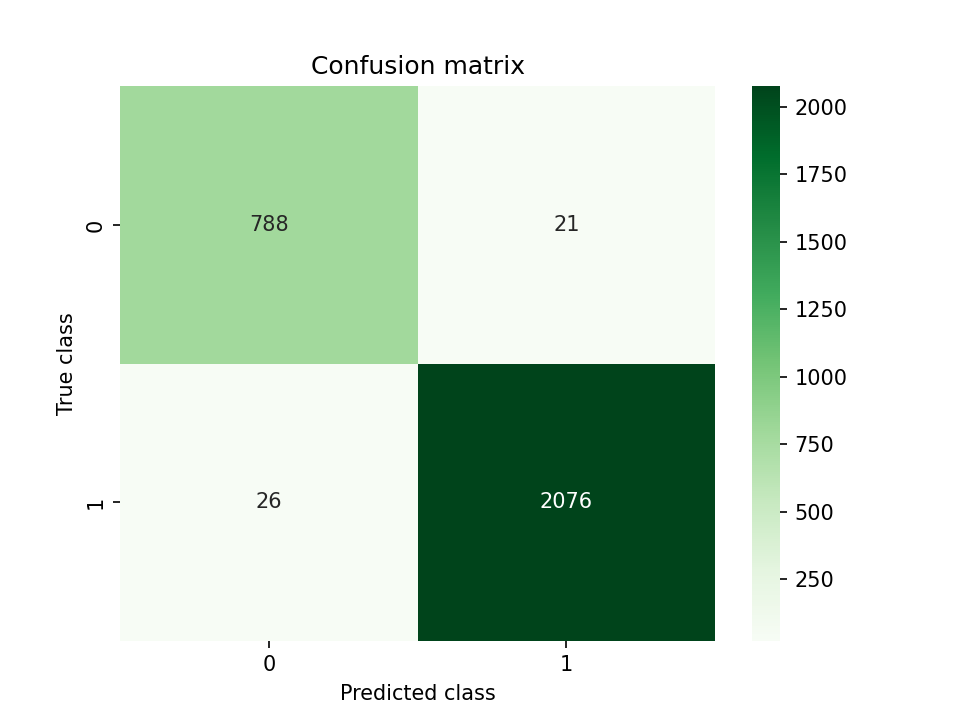
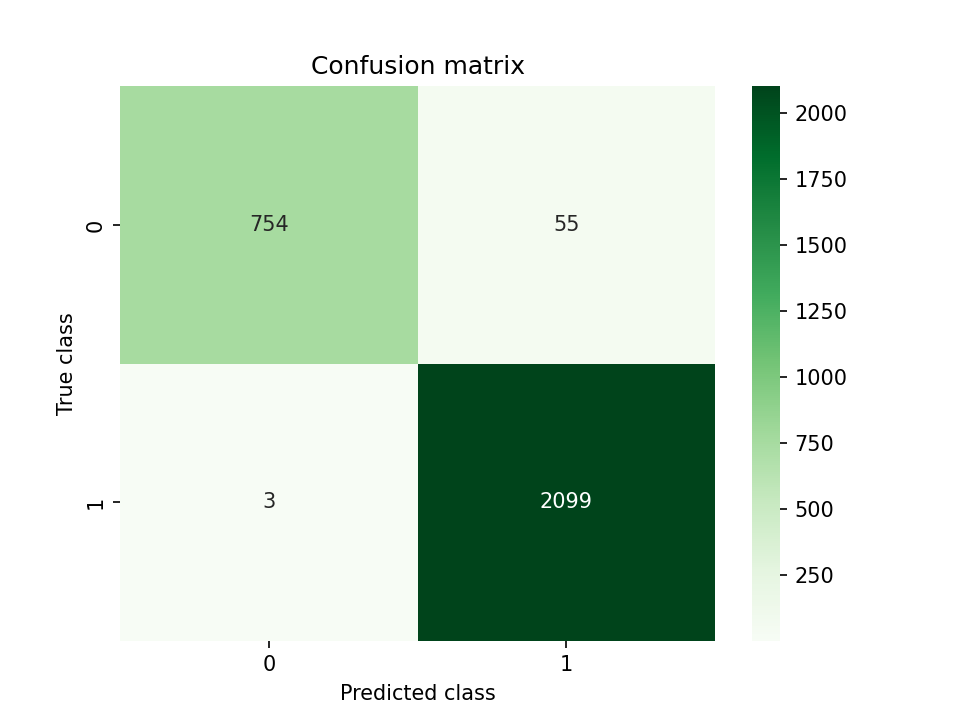
even newer results

diff --git a/code/main.py b/code/main.py
@@ -27,8 +27,16 @@ x_ptbdb, y_ptbdb, x_test_ptbdb, y_test_ptbdb = load_PTB_dataset()
 
 ### BASELINES
 
-test_mitbih_baseline(x_test_mit, y_test_mit)
-test_PTBDB_baseline(x_test_ptbdb, y_test_ptbdb)
+preds_baseline_mit = test_mitbih_baseline(x_test_mit, y_test_mit)
+evaluate("Baseline-MIT", preds_baseline_mit, y_test_mit, save_results=True)
+
+preds_baseline_ptbdb = test_PTBDB_baseline(x_test_ptbdb, y_test_ptbdb)
+evaluate(
+    "Baseline-PTB",
+    preds_baseline_ptbdb,
+    y_test_ptbdb,
+    save_results=True,
+)
 
 ### TASK 1
 ## Vanilla CNN
@@ -95,7 +103,7 @@ preds_resnet_ptbdb = get_preds_from_numpy(
 evaluate("ResNet-PTB", preds_resnet_ptbdb, y_test_ptbdb, save_results=True)
 
 # Transer learning for ResNet
-resnet_model_transfer, resnet_trainer_transfer = perform_transfer_learning(1)
+resnet_model_transfer, resnet_trainer_transfer = perform_transfer_learning(15)
 preds_resnet_transfer = get_preds_from_numpy(
     resnet_model_transfer, resnet_trainer_transfer, x_test_ptbdb
 )

diff --git a/code/models/baselines.py b/code/models/baselines.py
@@ -145,8 +145,8 @@ def test_mitbih_baseline(X_test: np.ndarray, Y_test: np.ndarray) -> np.ndarray:
     file_path = "baseline_cnn_mitbih.h5"
     model.load_weights(file_path)
 
-    pred_test = model.predict(X_test)
-    pred_test = np.argmax(pred_test, axis=-1)
+    pred_test_scores = model.predict(X_test)
+    pred_test = np.argmax(pred_test_scores, axis=-1)
 
     f1 = f1_score(Y_test, pred_test, average="macro")
 
@@ -155,7 +155,7 @@ def test_mitbih_baseline(X_test: np.ndarray, Y_test: np.ndarray) -> np.ndarray:
     acc = accuracy_score(Y_test, pred_test)
 
     print("Test accuracy score : %s " % acc)
-    return pred_test
+    return pred_test_scores
 
 
 def train_PTBDB_baseline(X: np.ndarray, Y: np.ndarray) -> None:
